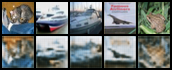
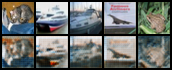
Update skip connection

Changed region(s): [[0.0, 0.5143, 0.9884, 0.9714]]

diff --git a/Autoencoder/Skip.py b/Autoencoder/Skip.py
@@ -16,8 +16,10 @@ class Net(nn.Module):
         self.encoder = nn.Sequential(
             nn.Conv2d(3, 4, 3, stride=2, padding=1),
             nn.ReLU(),
+
             nn.Conv2d(4, 8, 3, stride=2, padding=1),
             nn.ReLU(),
+
             nn.Conv2d(8, 16, 3, stride=2, padding=1),
             nn.ReLU()
         )
@@ -25,17 +27,11 @@ class Net(nn.Module):
         self.decoder = nn.Sequential(
             nn.ConvTranspose2d(16, 8, 4, stride=2, padding=1),
             nn.ReLU(),
-            nn.ConvTranspose2d(16, 8, 4, stride=2, padding=1),
+
+            nn.ConvTranspose2d(16, 4, 4, stride=2, padding=1),
             nn.ReLU(),
-            nn.Conv2d(8, 8, 4, stride=2, padding=1),
-            nn.ReLU(),
-            nn.ConvTranspose2d(8, 4, 4, stride=2, padding=1),
-            nn.ReLU(),
-            nn.ConvTranspose2d(8, 4, 4, stride=2, padding=1),
-            nn.ReLU(),
-            nn.Conv2d(4, 4, 4, stride=2, padding=1),
-            nn.ReLU(),
-            nn.ConvTranspose2d(4, 3, 4, stride=2, padding=1),
+
+            nn.ConvTranspose2d(8, 3, 4, stride=2, padding=1),
             nn.Sigmoid()
         )
 
@@ -62,7 +58,7 @@ class Net(nn.Module):
             self.encoder[1].register_forward_hook(save_activation_map_as('conv_1')),
             self.encoder[3].register_forward_hook(save_activation_map_as('conv_2')),
             self.decoder[1].register_forward_hook(concat_activation_with('conv_2')),
-            self.decoder[7].register_forward_hook(concat_activation_with('conv_1')),
+            self.decoder[3].register_forward_hook(concat_activation_with('conv_1')),
         ]
 
     def forward(self, x):
